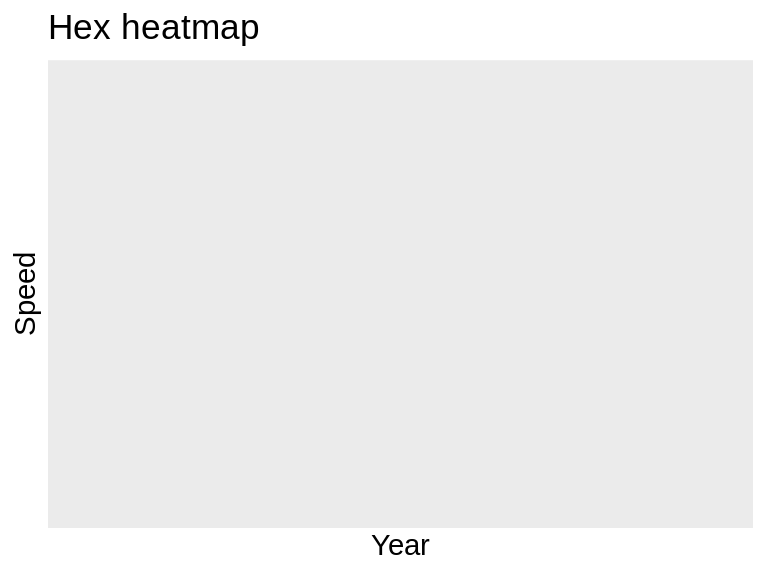
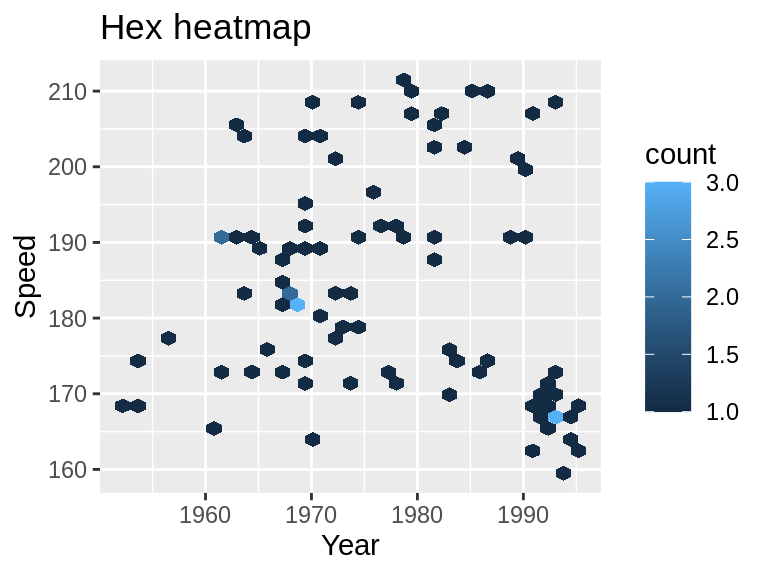
Deploying to gh-pages from @ jtr13/edav2@63e97d65f4a7ca781705bdba958c335aa6a160e7 🚀

diff --git a/two-continuous-variables.html b/two-continuous-variables.html
@@ -24,7 +24,7 @@
 <meta name="author" content="Joyce Robbins" />
 
 
-<meta name="date" content="2022-02-16" />
+<meta name="date" content="2022-02-17" />
 
   <meta name="viewport" content="width=device-width, initial-scale=1" />
   <meta name="apple-mobile-web-app-capable" content="yes" />
@@ -403,7 +403,7 @@ code span.wa { color: #60a0b0; font-weight: bold; font-style: italic; } /* Warni
 <h4><span class="header-section-number">8.2.2.4</span> Hex heatmap</h4>
 <p>One alternative is a hex heatmap. You can create the graph using <code>geom_hex</code></p>
 <div class="sourceCode" id="cb64"><pre class="sourceCode r"><code class="sourceCode r"><span id="cb64-1"><a href="two-continuous-variables.html#cb64-1"></a><span class="kw">ggplot</span>(SpeedSki, <span class="kw">aes</span>(Year, Speed)) <span class="op">+</span><span class="st"> </span></span>
-<span id="cb64-2"><a href="two-continuous-variables.html#cb64-2"></a><span class="st">  </span><span class="kw">geom_hex</span>() <span class="op">+</span></span>
+<span id="cb64-2"><a href="two-continuous-variables.html#cb64-2"></a><span class="st">  </span><span class="kw">geom_hex</span>(<span class="dt">binswidth =</span> <span class="kw">c</span>(<span class="dv">10</span>,<span class="dv">10</span>)) <span class="op">+</span></span>
 <span id="cb64-3"><a href="two-continuous-variables.html#cb64-3"></a><span class="st">  </span><span class="kw">ggtitle</span>(<span class="st">&quot;Hex heatmap&quot;</span>)</span></code></pre></div>
 <p><img src="two_continuous_var_files/figure-html/unnamed-chunk-11-1.png" width="384" style="display: block; margin: auto;" /></p>
 </div>
@@ -411,11 +411,11 @@ code span.wa { color: #60a0b0; font-weight: bold; font-style: italic; } /* Warni
 <h4><span class="header-section-number">8.2.2.5</span> Alternative approach to color</h4>
 <p>If you look at all the previous examples, you might notice that lighter points corresponds to more clustered points, which is somewhat counter-intuitive. The following exmaple suggest an alternative approach in color scale.</p>
 <div class="sourceCode" id="cb65"><pre class="sourceCode r"><code class="sourceCode r"><span id="cb65-1"><a href="two-continuous-variables.html#cb65-1"></a><span class="kw">ggplot</span>(SpeedSki, <span class="kw">aes</span>(Year, Speed)) <span class="op">+</span><span class="st"> </span></span>
-<span id="cb65-2"><a href="two-continuous-variables.html#cb65-2"></a><span class="st">  </span><span class="kw">geom_hex</span>(<span class="dt">bins=</span><span class="dv">10</span>) <span class="op">+</span></span>
+<span id="cb65-2"><a href="two-continuous-variables.html#cb65-2"></a><span class="st">  </span><span class="kw">geom_hex</span>(<span class="dt">bins=</span><span class="dv">12</span>) <span class="op">+</span></span>
 <span id="cb65-3"><a href="two-continuous-variables.html#cb65-3"></a><span class="st">  </span><span class="kw">scale_fill_gradient</span>(<span class="dt">low =</span> <span class="st">&quot;grey&quot;</span>, <span class="dt">high =</span> <span class="st">&quot;purple&quot;</span>) <span class="op">+</span><span class="st">  </span></span>
 <span id="cb65-4"><a href="two-continuous-variables.html#cb65-4"></a><span class="st">  </span><span class="kw">theme_classic</span>(<span class="dv">18</span>) <span class="op">+</span></span>
 <span id="cb65-5"><a href="two-continuous-variables.html#cb65-5"></a><span class="st">  </span><span class="kw">ggtitle</span>(<span class="st">&quot;Alternative approach to color&quot;</span>)</span></code></pre></div>
-<p><img src="two_continuous_var_files/figure-html/unnamed-chunk-12-1.png" width="460.8" style="display: block; margin: auto;" /></p>
+<p><img src="two_continuous_var_files/figure-html/unnamed-chunk-12-1.png" width="576" style="display: block; margin: auto;" /></p>
 
 </div>
 </div>

diff --git a/index.html b/index.html
@@ -24,7 +24,7 @@
 <meta name="author" content="Joyce Robbins" />
 
 
-<meta name="date" content="2022-02-16" />
+<meta name="date" content="2022-02-17" />
 
   <meta name="viewport" content="width=device-width, initial-scale=1" />
   <meta name="apple-mobile-web-app-capable" content="yes" />
@@ -250,7 +250,7 @@ code span.wa { color: #60a0b0; font-weight: bold; font-style: italic; } /* Warni
 <div id="header">
 <h1 class="title">edav.info, 2nd edition</h1>
 <p class="author"><em>Joyce Robbins</em></p>
-<p class="date"><em>2022-02-16</em></p>
+<p class="date"><em>2022-02-17</em></p>
 </div>
 <div id="welcome" class="section level1">
 <h1><span class="header-section-number">Chapter 1</span> Welcome!</h1>

diff --git a/404.html b/404.html
@@ -24,7 +24,7 @@
 <meta name="author" content="Joyce Robbins" />
 
 
-<meta name="date" content="2022-02-16" />
+<meta name="date" content="2022-02-17" />
 
   <meta name="viewport" content="width=device-width, initial-scale=1" />
   <meta name="apple-mobile-web-app-capable" content="yes" />

diff --git a/data-transformation.html b/data-transformation.html
@@ -24,7 +24,7 @@
 <meta name="author" content="Joyce Robbins" />
 
 
-<meta name="date" content="2022-02-16" />
+<meta name="date" content="2022-02-17" />
 
   <meta name="viewport" content="width=device-width, initial-scale=1" />
   <meta name="apple-mobile-web-app-capable" content="yes" />

diff --git a/getting-started.html b/getting-started.html
@@ -24,7 +24,7 @@
 <meta name="author" content="Joyce Robbins" />
 
 
-<meta name="date" content="2022-02-16" />
+<meta name="date" content="2022-02-17" />
 
   <meta name="viewport" content="width=device-width, initial-scale=1" />
   <meta name="apple-mobile-web-app-capable" content="yes" />

diff --git a/learning-ggplot2.html b/learning-ggplot2.html
@@ -24,7 +24,7 @@
 <meta name="author" content="Joyce Robbins" />
 
 
-<meta name="date" content="2022-02-16" />
+<meta name="date" content="2022-02-17" />
 
   <meta name="viewport" content="width=device-width, initial-scale=1" />
   <meta name="apple-mobile-web-app-capable" content="yes" />

diff --git a/unidimensional-categorical-variables.html b/unidimensional-categorical-variables.html
@@ -24,7 +24,7 @@
 <meta name="author" content="Joyce Robbins" />
 
 
-<meta name="date" content="2022-02-16" />
+<meta name="date" content="2022-02-17" />
 
   <meta name="viewport" content="width=device-width, initial-scale=1" />
   <meta name="apple-mobile-web-app-capable" content="yes" />

diff --git a/unidimensional-continuous-variables.html b/unidimensional-continuous-variables.html
@@ -24,7 +24,7 @@
 <meta name="author" content="Joyce Robbins" />
 
 
-<meta name="date" content="2022-02-16" />
+<meta name="date" content="2022-02-17" />
 
   <meta name="viewport" content="width=device-width, initial-scale=1" />
   <meta name="apple-mobile-web-app-capable" content="yes" />

diff --git a/working-with-factors.html b/working-with-factors.html
@@ -24,7 +24,7 @@
 <meta name="author" content="Joyce Robbins" />
 
 
-<meta name="date" content="2022-02-16" />
+<meta name="date" content="2022-02-17" />
 
   <meta name="viewport" content="width=device-width, initial-scale=1" />
   <meta name="apple-mobile-web-app-capable" content="yes" />

diff --git a/two_continuous_var.md b/two_continuous_var.md
@@ -222,7 +222,7 @@ One alternative is a hex heatmap. You can create the graph using `geom_hex`
 
 ```r
 ggplot(SpeedSki, aes(Year, Speed)) + 
-  geom_hex() +
+  geom_hex(binswidth = c(10,10)) +
   ggtitle("Hex heatmap")
 ```
 
@@ -235,10 +235,10 @@ If you look at all the previous examples, you might notice that lighter points c
 
 ```r
 ggplot(SpeedSki, aes(Year, Speed)) + 
-  geom_hex(bins=10) +
+  geom_hex(bins=12) +
   scale_fill_gradient(low = "grey", high = "purple") +  
   theme_classic(18) +
   ggtitle("Alternative approach to color")
 ```
 
-<img src="two_continuous_var_files/figure-html/unnamed-chunk-12-1.png" width="460.8" style="display: block; margin: auto;" />
+<img src="two_continuous_var_files/figure-html/unnamed-chunk-12-1.png" width="576" style="display: block; margin: auto;" />

diff --git a/index.md b/index.md
@@ -1,7 +1,7 @@
 ---
 title: "edav.info, 2nd edition"
 author: "Joyce Robbins"
-date: "2022-02-16"
+date: "2022-02-17"
 site: bookdown::bookdown_site
 github-repo: jtr13/edav2
 description: "Supplemental resources for GR5293 and GR5702"
